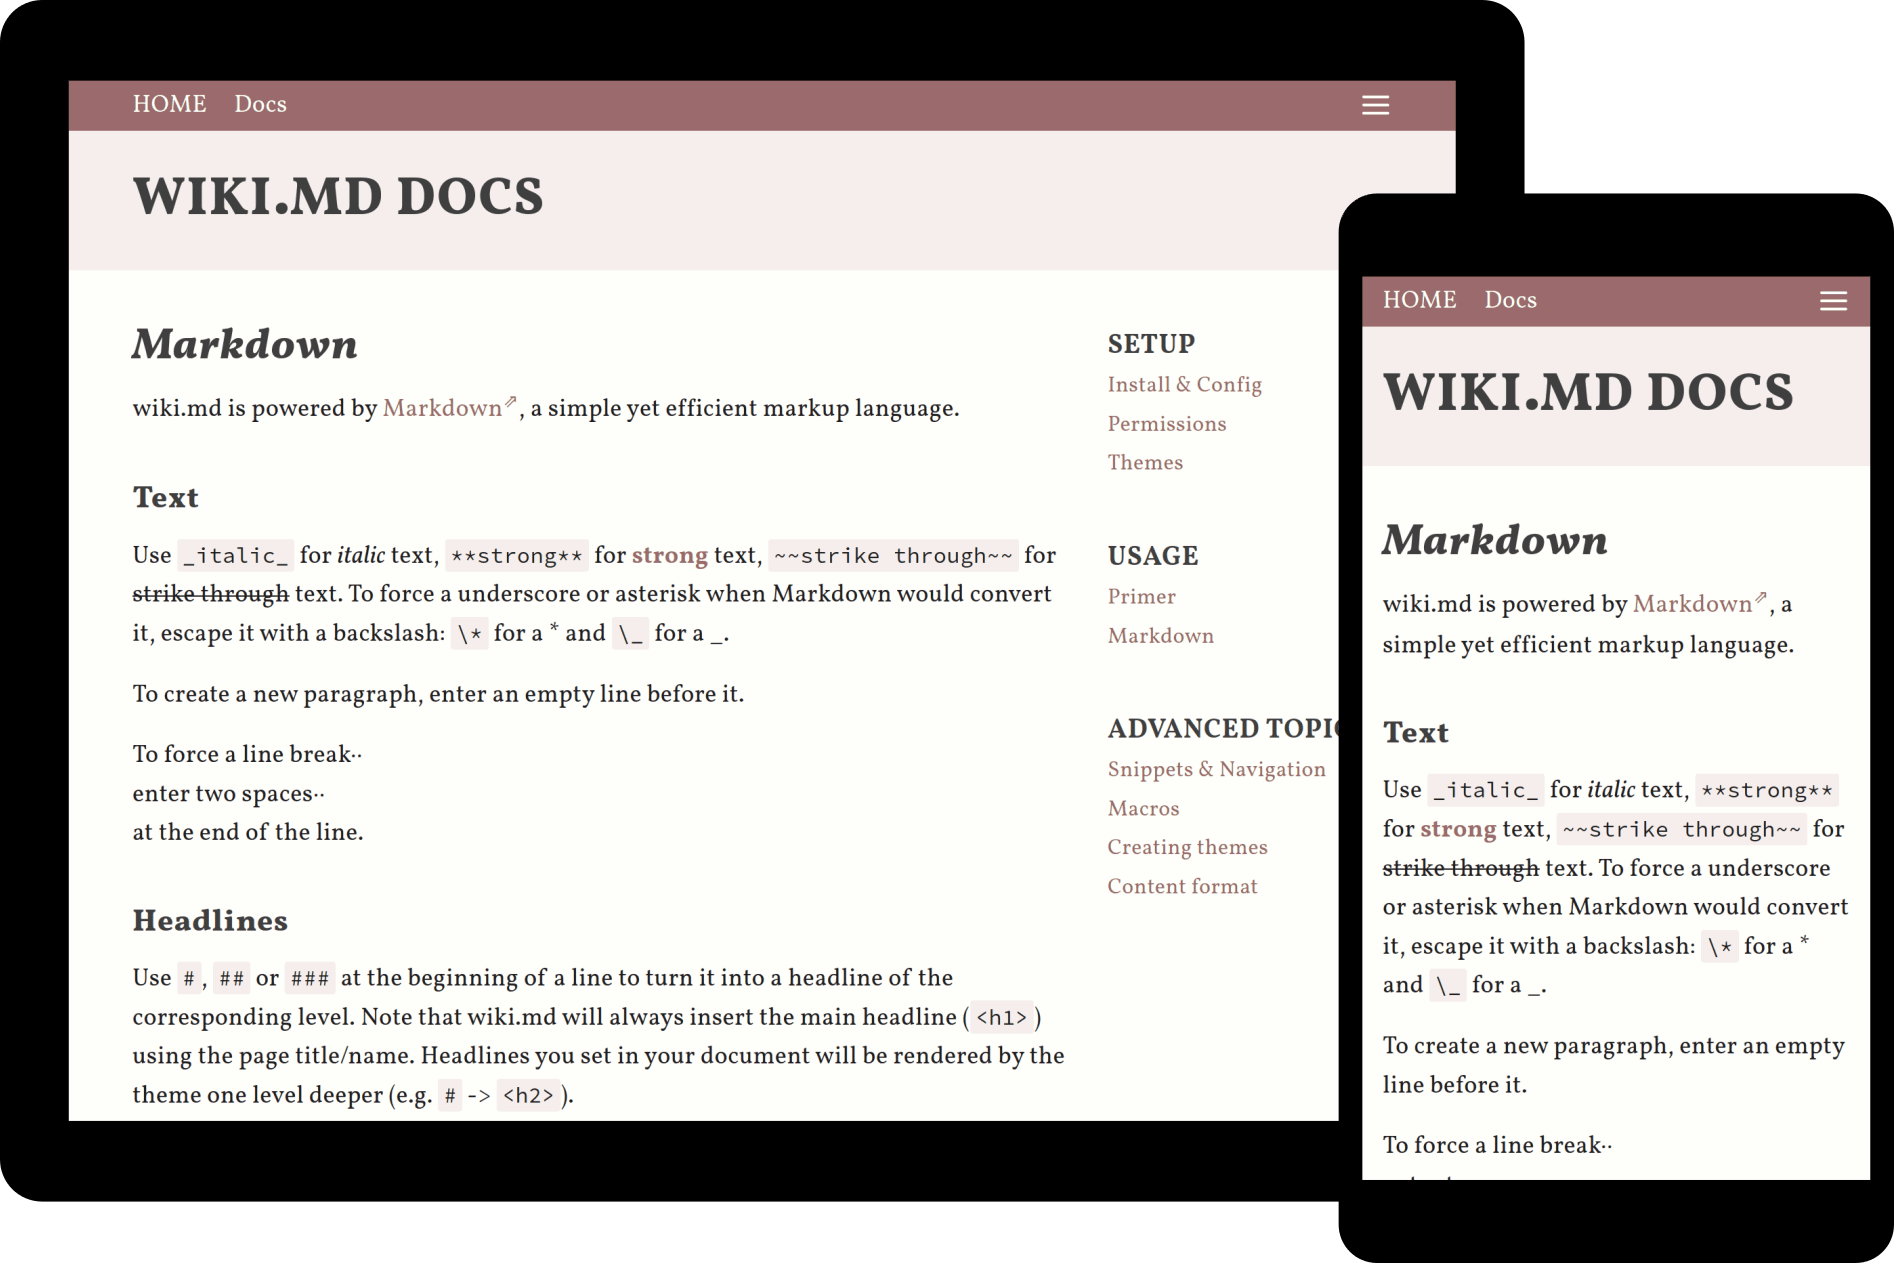
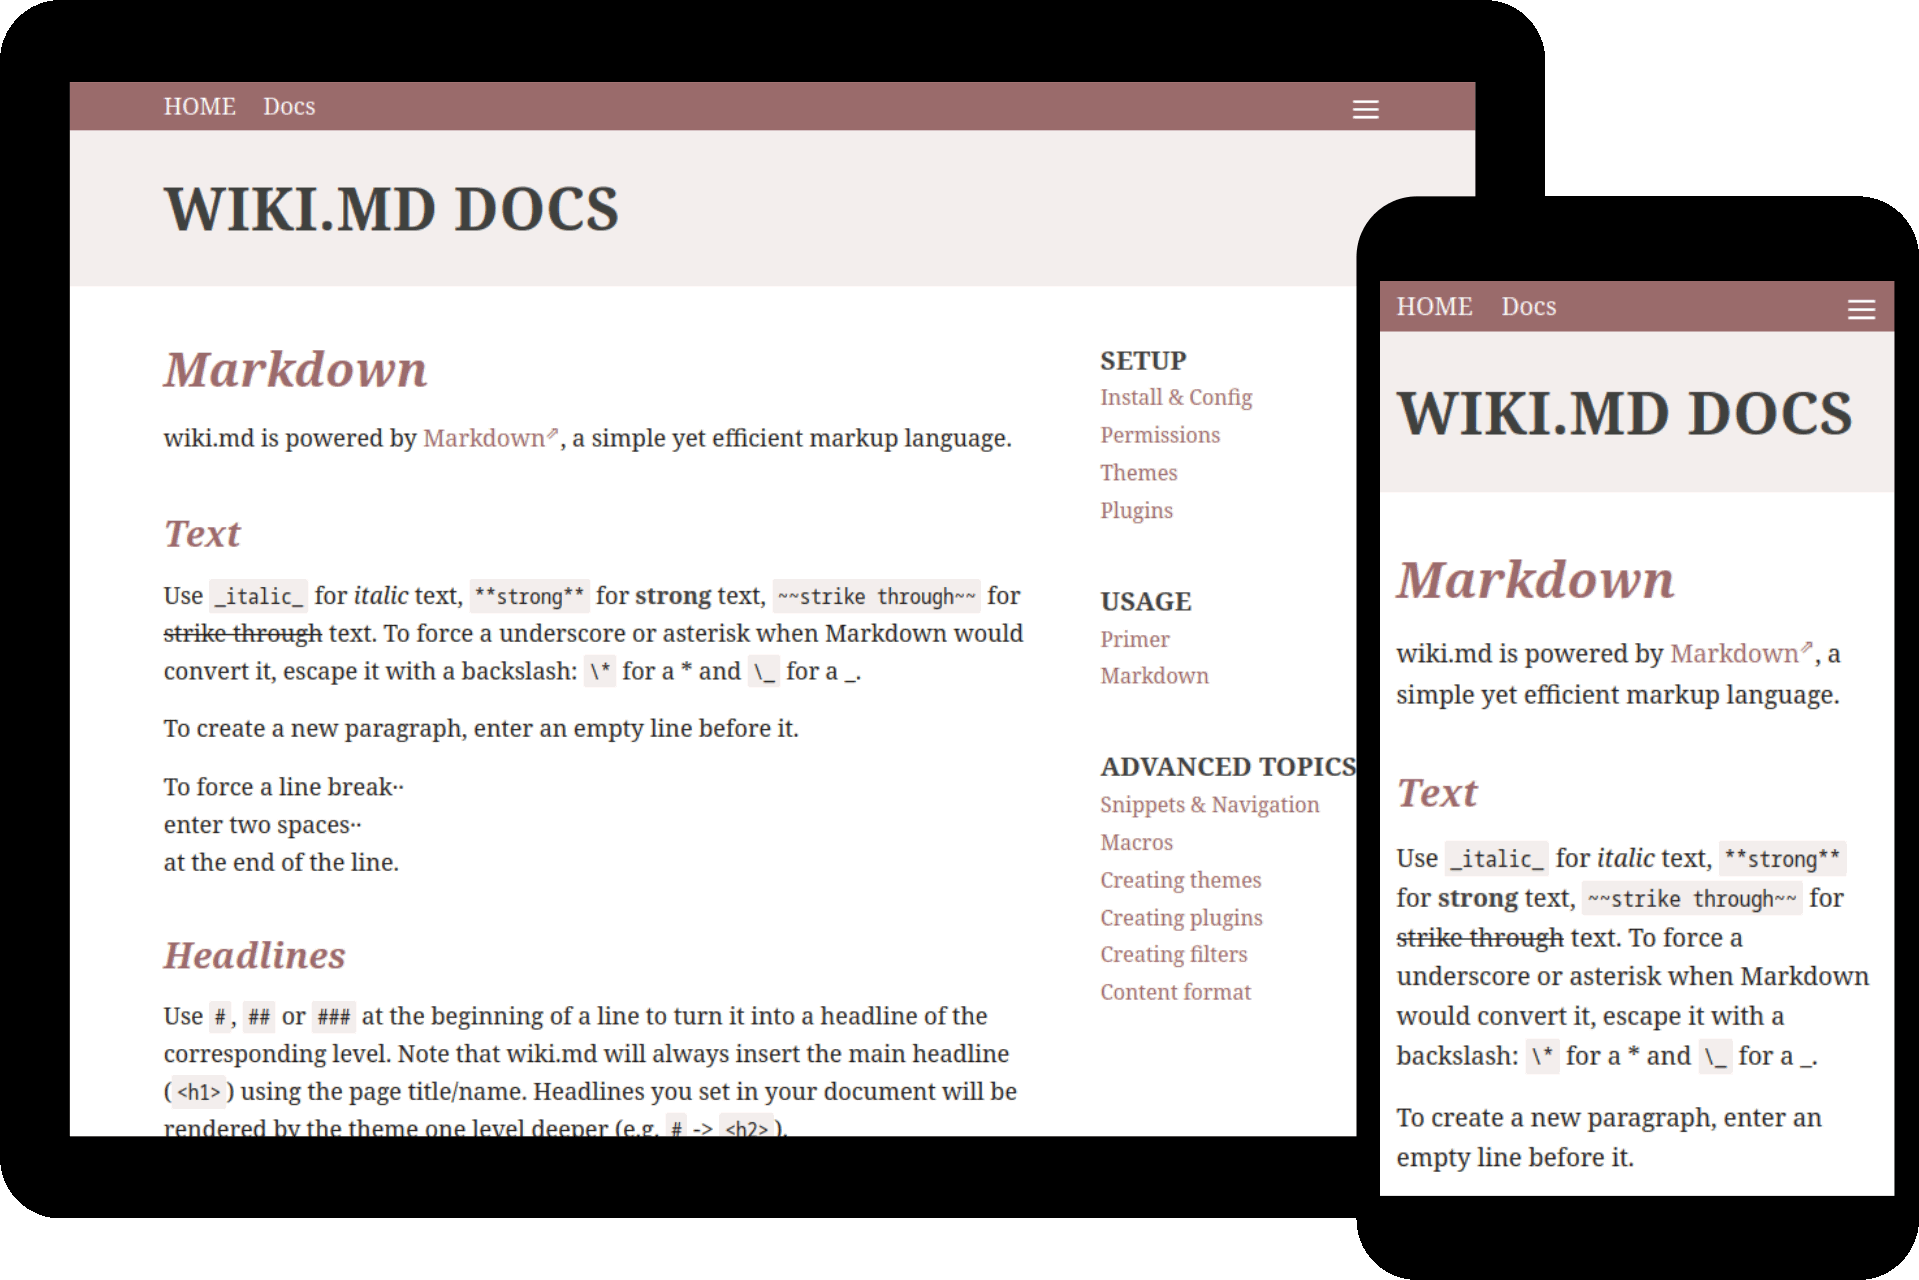
updated screenshot

diff --git a/docs/roadmap.md b/docs/roadmap.md
@@ -8,11 +8,11 @@ This document contains a backlog of things to (maybe) do next.
 * [X] npm run test:integration
 * [X] default_author setting
 * [X] PHP 7.4 ... 8.3
+* [X] update docs screenshot
 
 ### Backlog (unscheduled)
 
 * bug: trailing # in code duplicated
-* update docs screenshot
 * make include-macro include the markdown, not the html
 * rename-page feature
 * github action CI

diff --git a/CHANGELOG.md b/CHANGELOG.md
@@ -3,6 +3,7 @@
 * added default_author config.ini variable
 * added integration tests for all supported PHP versions
 * fixed test:unit / missing docs in release zip/tgz
+* updated screenshot
 
 # v2.2.0
 
